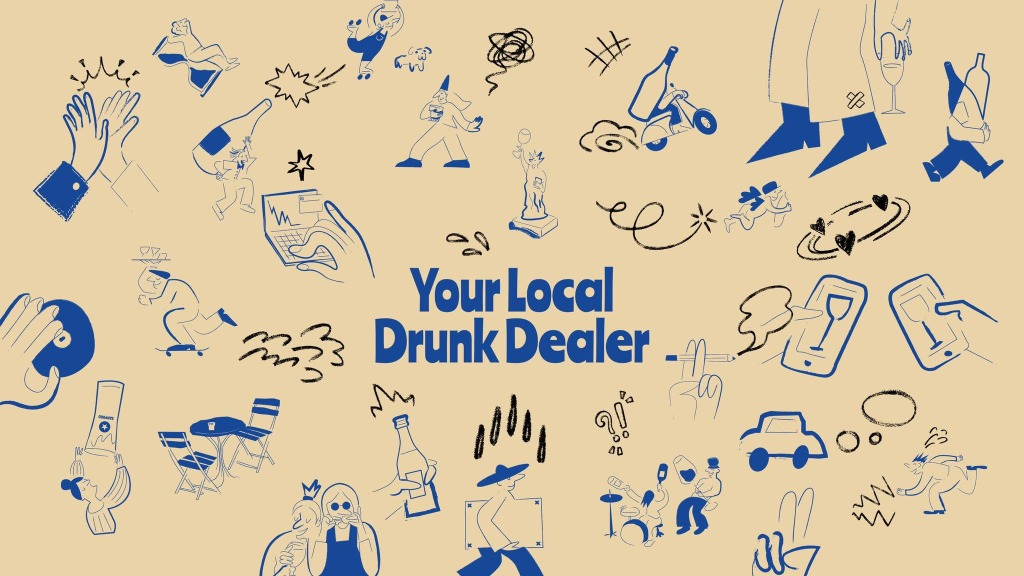
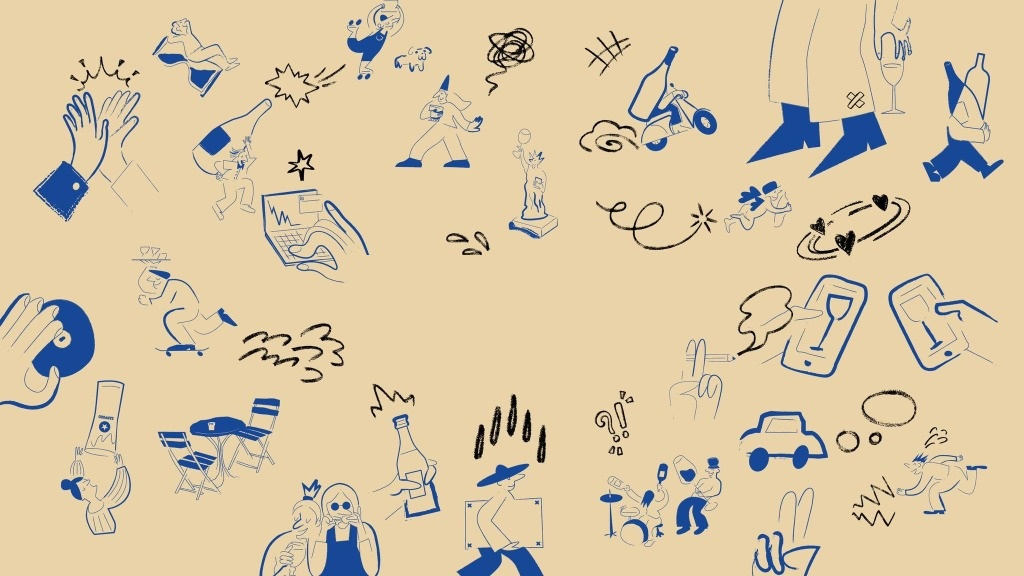
fix(login): completely conceal 'Your Local Drunk Dealer' text and make login card opaque solid white

Changed region(s): [[0.3438, 0.4688, 0.6562, 0.6562], [0.3438, 0.4375, 0.375, 0.4688]]

diff --git a/apps/web/src/app/(auth)/login/page.tsx b/apps/web/src/app/(auth)/login/page.tsx
@@ -236,15 +236,13 @@ export default function LoginPage() {
 
       {/* Main Container */}
       <div className="relative z-10 w-full max-w-[430px] mx-auto my-auto">
-        {/* Frosted Glass Login Card */}
+        {/* Solid White Login Card */}
         <div
           className="rounded-3xl p-7 sm:p-9"
           style={{
-            background: 'rgba(255, 255, 255, 0.94)',
-            backdropFilter: 'blur(24px)',
-            WebkitBackdropFilter: 'blur(24px)',
-            border: '2px solid rgba(255, 255, 255, 0.95)',
-            boxShadow: '0 24px 60px rgba(35, 64, 168, 0.18), 0 4px 16px rgba(0, 0, 0, 0.06)',
+            background: '#FFFFFF',
+            border: '2px solid rgba(35, 64, 168, 0.15)',
+            boxShadow: '0 24px 70px rgba(27, 43, 107, 0.2), 0 4px 20px rgba(0, 0, 0, 0.08)',
           }}
         >
           {/* Card Header */}
